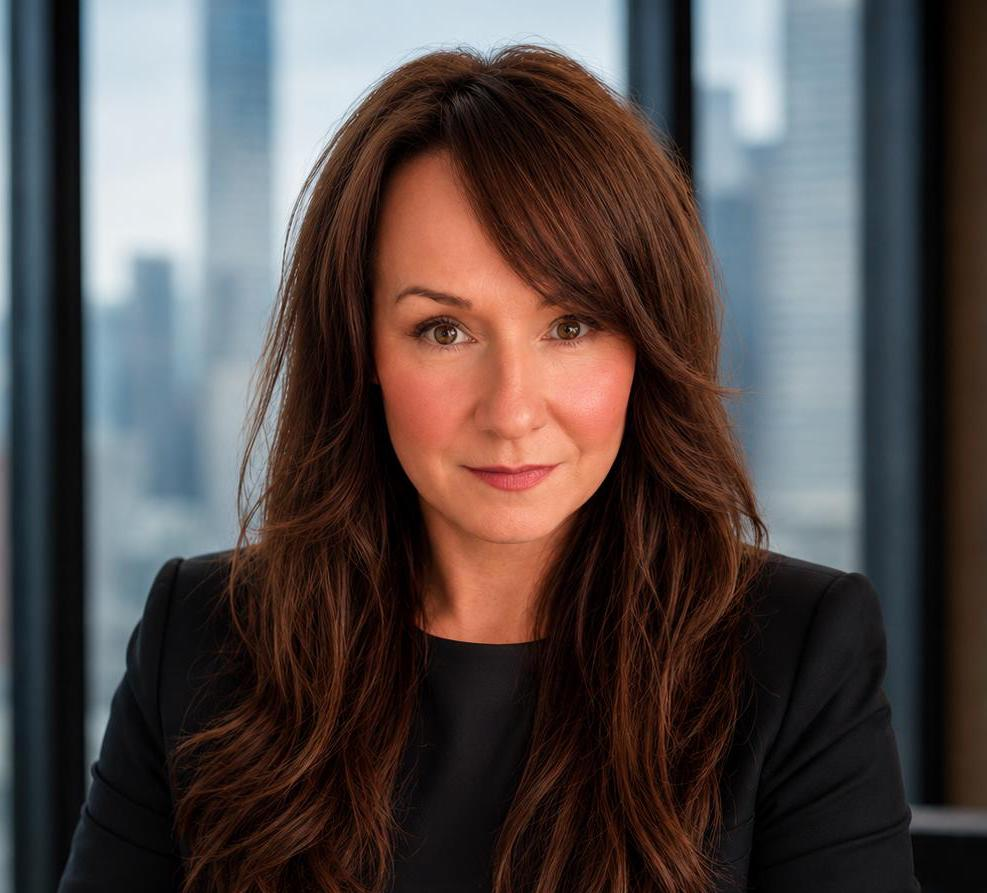
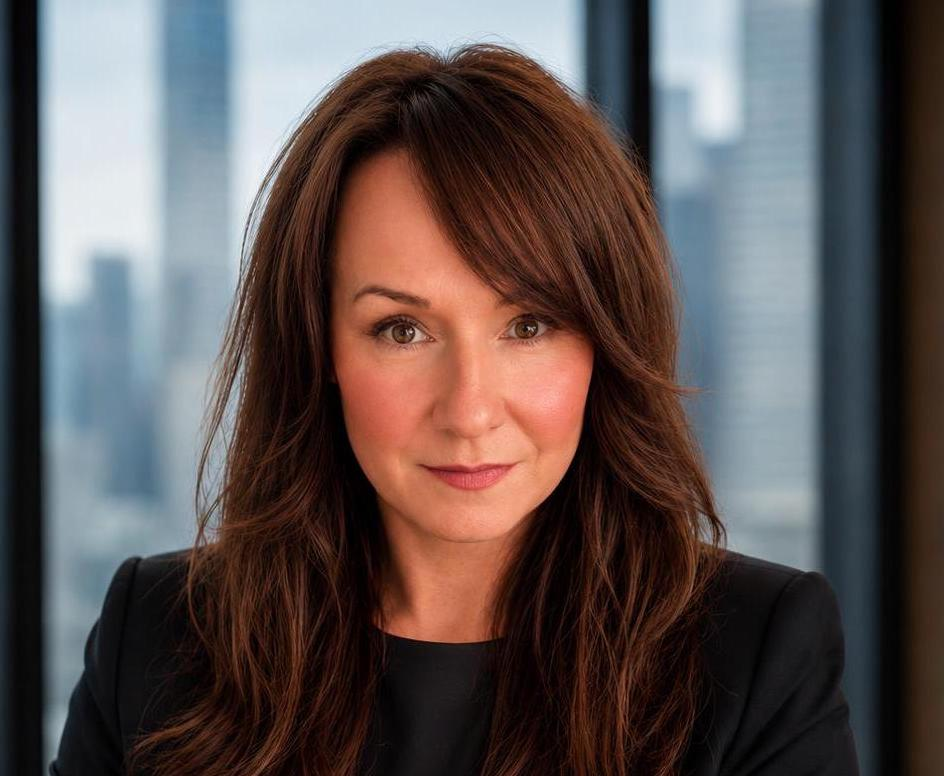
Refresh Shannon headshot (images/shan.jpeg); bust cache (?v=20260518-1703)

diff --git a/team-full.html b/team-full.html
@@ -112,7 +112,7 @@
 
                 <div class="team-card" data-member="shannon-ramsey">
                     <div class="team-photo">
-                        <img src="images/shan.jpeg?v=20260518" alt="Shannon Ramsey" style="opacity: 1; filter: none;" onerror="this.src='logo.png'; this.style.opacity='0.3';">
+                        <img src="images/shan.jpeg?v=20260518-1703" alt="Shannon Ramsey" style="opacity: 1; filter: none;" onerror="this.src='logo.png'; this.style.opacity='0.3';">
                     </div>
                     <div class="team-badge">
                         <img src="images/back-helmet.png" alt="Prytaneum Partners" class="badge-logo">
